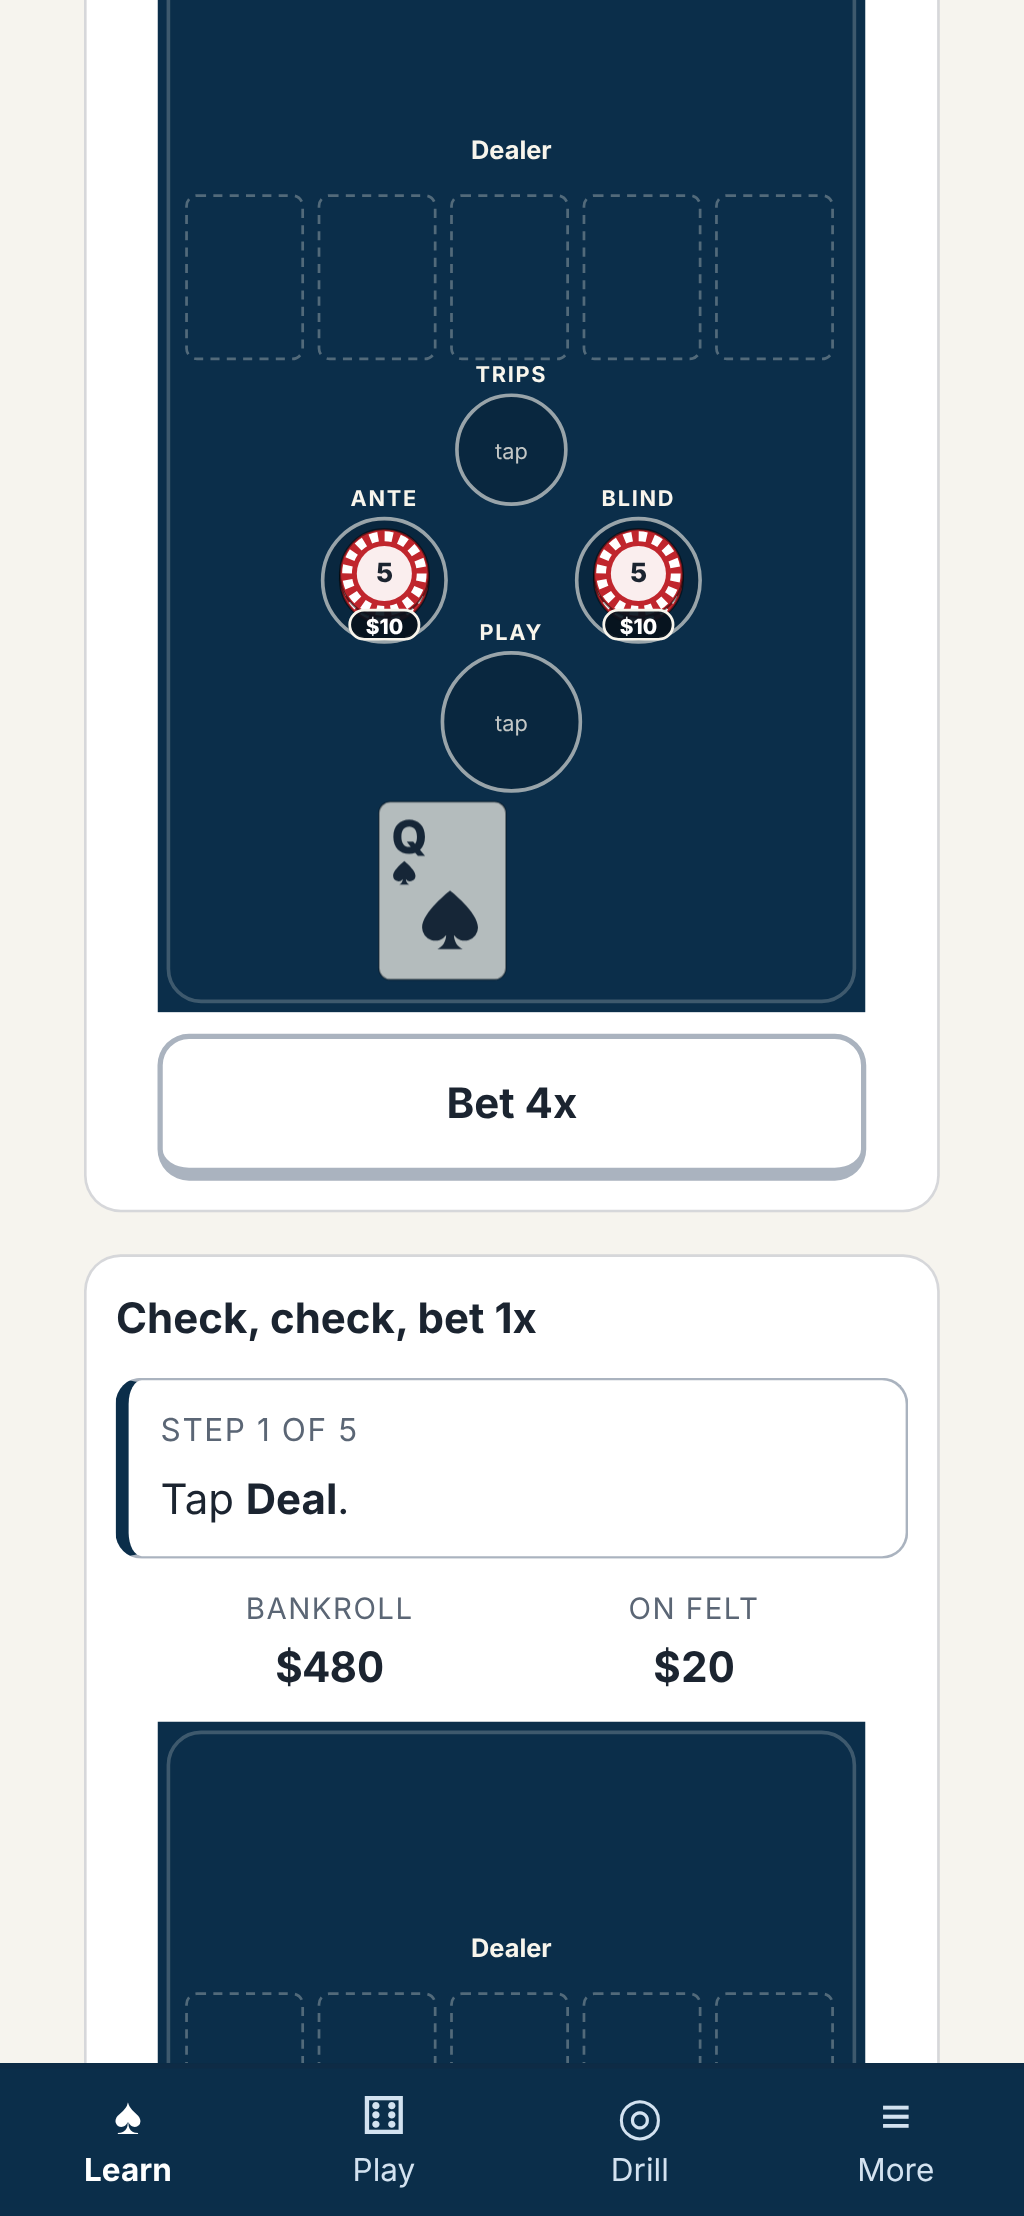
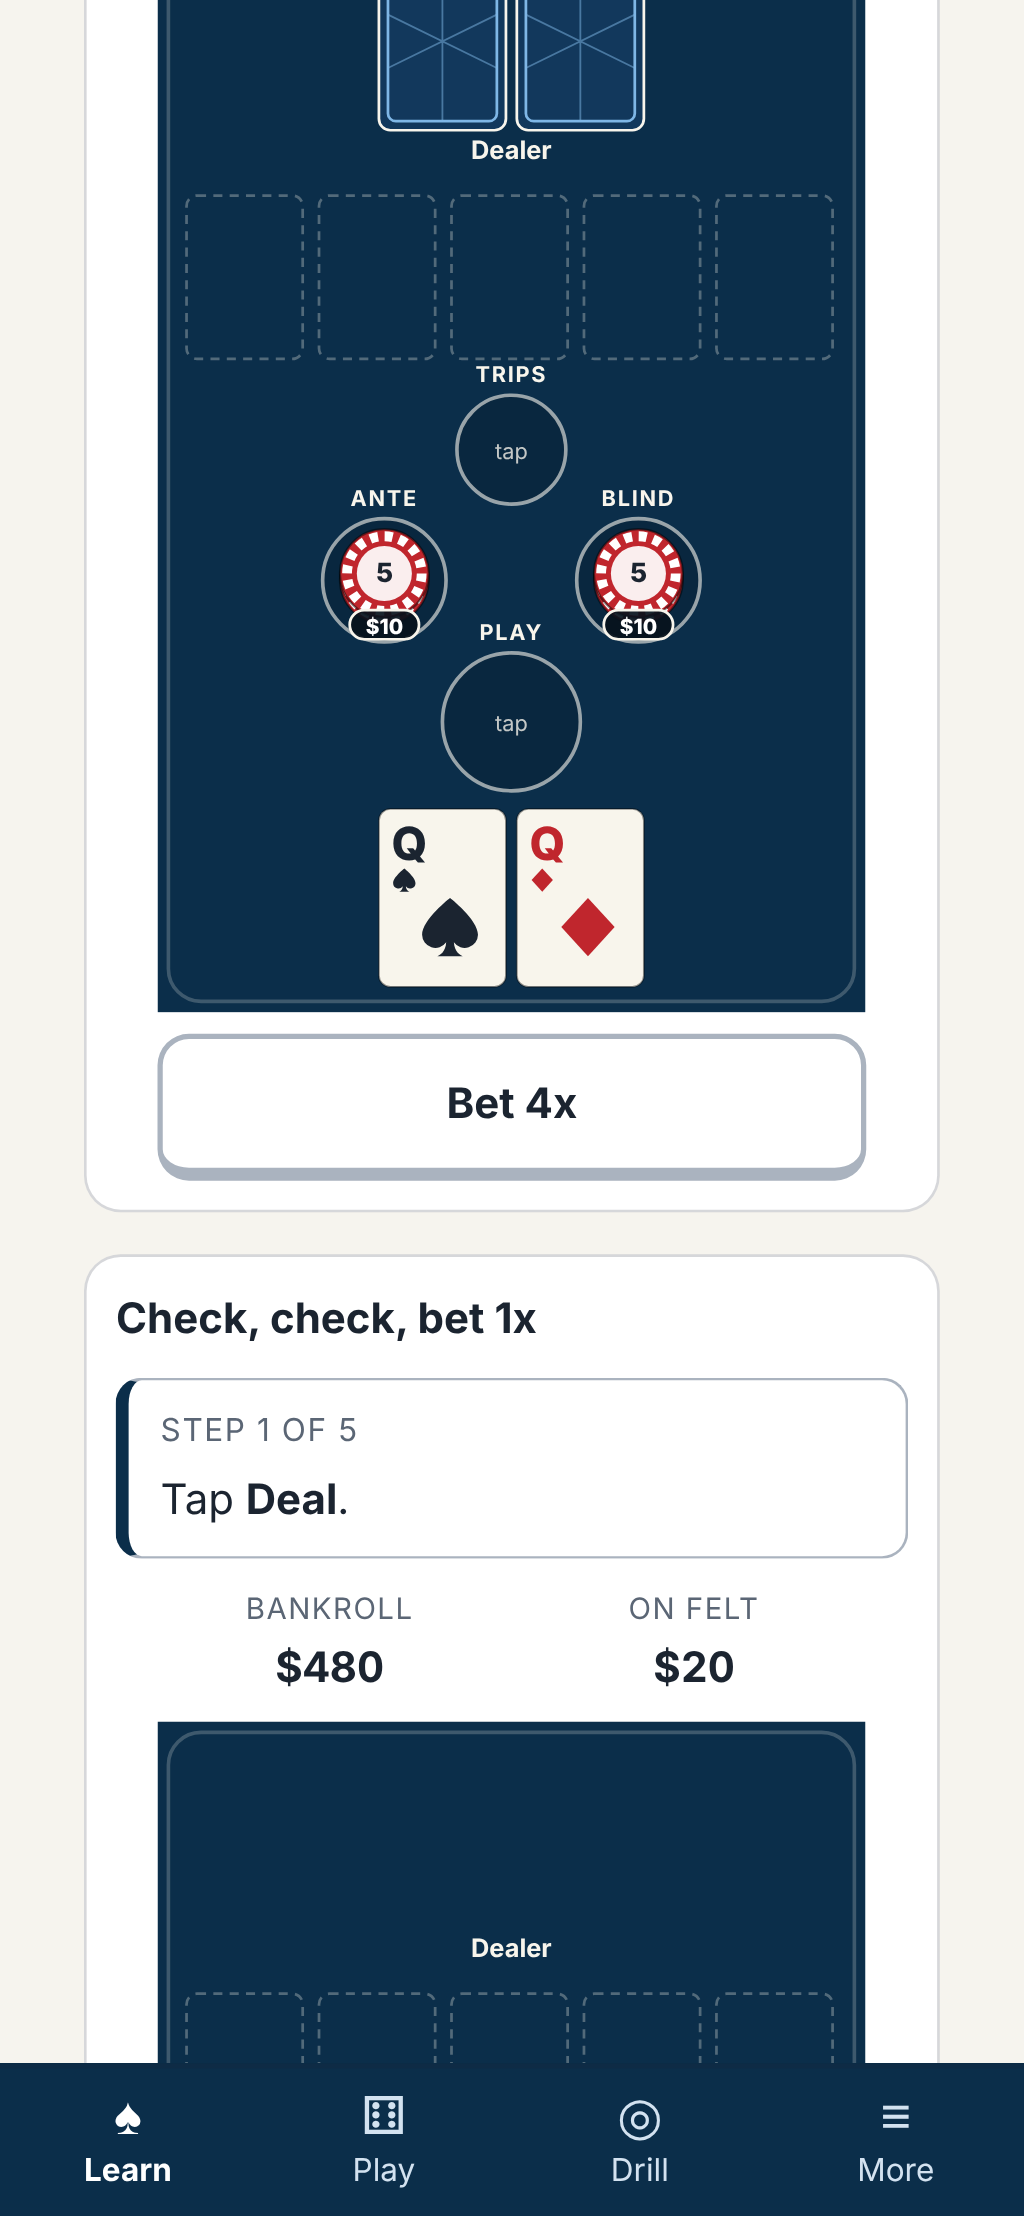
autoplay: honest 1-session line, nowrap counts, .btn, whole-dollar axis; e2e asserts two hole cards; screenshots
Claude-Session: https://claude.ai/code/session_01PWKQj6nyHK13ovx4AWfotY

Changed region(s): [[0.3438, 0.3425, 0.6562, 0.4671], [0.3438, 0.0, 0.6562, 0.0623]]

diff --git a/src/sim/ui/AutoPlayPanel.tsx b/src/sim/ui/AutoPlayPanel.tsx
@@ -194,13 +194,13 @@ export function AutoPlayPanel({
         {(fracToNumber(metrics.edgePerAnte) * 100).toFixed(2)}% of the Ante).
       </p>
       <div style={{ display: 'flex', gap: '8px', alignItems: 'center' }}>
-        <button type="button" onClick={() => void run()} disabled={running}>
+        <button type="button" class="btn" onClick={() => void run()} disabled={running}>
           Run
         </button>
         {running ? (
           <>
             <progress value={progress.done} max={progress.total} aria-label="Simulation progress" />
-            <button type="button" onClick={() => ctl.current?.abort()}>
+            <button type="button" class="btn btn-ghost" onClick={() => ctl.current?.abort()}>
               Cancel
             </button>
           </>
@@ -218,8 +218,17 @@ export function AutoPlayPanel({
               {sessions > 1 ? ` ± ${formatMoney(Math.round(main.meanFinalCi95))}` : ''}
             </li>
             <li>Luck: {formatMoney(Math.round(simNet - exactNet), { sign: true })}</li>
-            <li>Chance of finishing ahead (≈): {(main.probAhead * 100).toFixed(0)}%</li>
-            <li>Busted (≈): {(main.bustRate * 100).toFixed(0)}% of sessions</li>
+            {sessions >= 10 ? (
+              <>
+                <li>Chance of finishing ahead (≈): {(main.probAhead * 100).toFixed(0)}%</li>
+                <li>Busted (≈): {(main.bustRate * 100).toFixed(0)}% of sessions</li>
+              </>
+            ) : (
+              <li>
+                1 session: {simNet >= 0 ? 'finished ahead' : 'finished behind'} (one run says little
+                about the odds; try 100 sessions)
+              </li>
+            )}
             {trips > 0 ? <li>Trips hits: {main.tripsHits}</li> : null}
             <li>Blind bonus hits: {main.blindBonusHits}</li>
           </ul>

diff --git a/src/sim/ui/OutcomeHistogram.tsx b/src/sim/ui/OutcomeHistogram.tsx
@@ -30,10 +30,10 @@ function Bars({ rows, total, label }: { rows: [string, number][]; total: number;
       <tbody>
         {rows.map(([name, n]) => (
           <tr key={name}>
-            <th scope="row" style={{ textAlign: 'left', fontWeight: 400, width: '28%' }}>
+            <th scope="row" style={{ textAlign: 'left', fontWeight: 400, width: '26%' }}>
               {LABEL[name] ?? name}
             </th>
-            <td style={{ width: '52%' }}>
+            <td style={{ width: '40%' }}>
               <div
                 style={{
                   height: '10px',
@@ -43,7 +43,13 @@ function Bars({ rows, total, label }: { rows: [string, number][]; total: number;
                 }}
               />
             </td>
-            <td style={{ textAlign: 'right', fontVariantNumeric: 'tabular-nums' }}>
+            <td
+              style={{
+                textAlign: 'right',
+                fontVariantNumeric: 'tabular-nums',
+                whiteSpace: 'nowrap',
+              }}
+            >
               {n.toLocaleString('en-US')} ({total ? ((100 * n) / total).toFixed(1) : '0.0'}%)
             </td>
           </tr>

diff --git a/tests/e2e/lessons.spec.ts b/tests/e2e/lessons.spec.ts
@@ -9,9 +9,14 @@ test('a lesson scene completes in the UI and the lesson shows Done', async ({ pa
   await expect(scene.locator('button[data-option]')).toHaveCount(0);
   await scene.getByRole('button', { name: /^Deal/ }).click();
   await expect(scene.getByTestId('step-panel')).toContainText(/Bet 4x/);
+  // Once dealt, the player holds exactly two face-up cards (the dealer's two stay face down).
+  await expect(scene.locator('g.sim-card:not(.sim-card-back)')).toHaveCount(2);
+  await expect(scene.locator('g.sim-card-back')).toHaveCount(2);
   // The deal is locked while a decision is waiting.
   await scene.locator('button[data-option="play-4"]').click();
   await expect(scene.getByTestId('step-panel')).toContainText(/Step 3 of 3/);
+  // The finished hand shows both hole cards, the dealer's two and the whole board.
+  await expect(scene.locator('g.sim-card:not(.sim-card-back)')).toHaveCount(9);
   await scene.getByTestId('step-next').click();
   await expect(scene.locator('.scene-head .badge')).toHaveText('Done');
 });

diff --git a/tests/e2e/sandbox.spec.ts b/tests/e2e/sandbox.spec.ts
@@ -17,6 +17,7 @@ test.describe('sandbox', () => {
     await expect(page.locator('[data-circle="blind"]')).toContainText('$10');
     await page.locator('button[data-action="deal"]').click();
     await ready(page);
+    await expect(page.locator('g.sim-card:not(.sim-card-back)')).toHaveCount(2);
     // Preview first: the EV is visible before anything is confirmed.
     await opt(page, 'play-4').click();
     const sheet = page.getByTestId('ev-sheet');

diff --git a/tests/e2e/screenshots.spec.ts b/tests/e2e/screenshots.spec.ts
@@ -33,6 +33,7 @@ test('screenshots', async ({ page }, info) => {
   await scene.scrollIntoViewIfNeeded();
   await page.waitForSelector('[data-testid="step-panel"]');
   await scene.getByRole('button', { name: /^Deal/ }).click();
+  await page.waitForTimeout(900); // let the deal animation finish
   await scene.locator('button[data-option="play-4"]').scrollIntoViewIfNeeded();
   await shot('lesson-scene');
 

diff --git a/src/sim/ui/BankrollChart.tsx b/src/sim/ui/BankrollChart.tsx
@@ -87,7 +87,7 @@ export function BankrollChart({ series, bankroll, hands, class: cls }: BankrollC
               opacity="0.25"
             />
             <text x={PAD.l - 4} y={y(t) + 3} text-anchor="end" font-size="9" fill="var(--muted)">
-              {formatMoney(t)}
+              {formatMoney(Math.round(t / 100) * 100)}
             </text>
           </g>
         ))}
